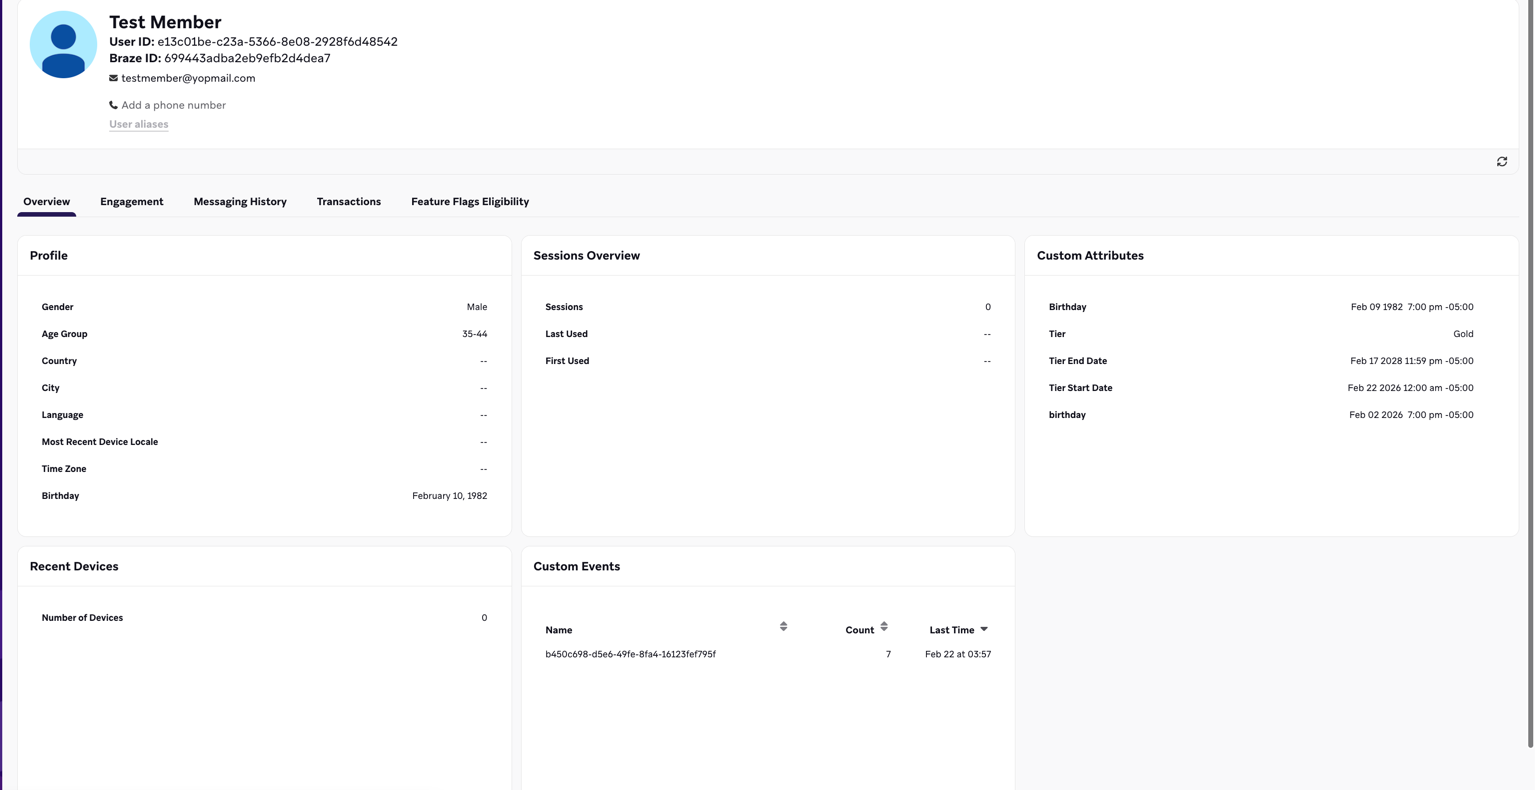
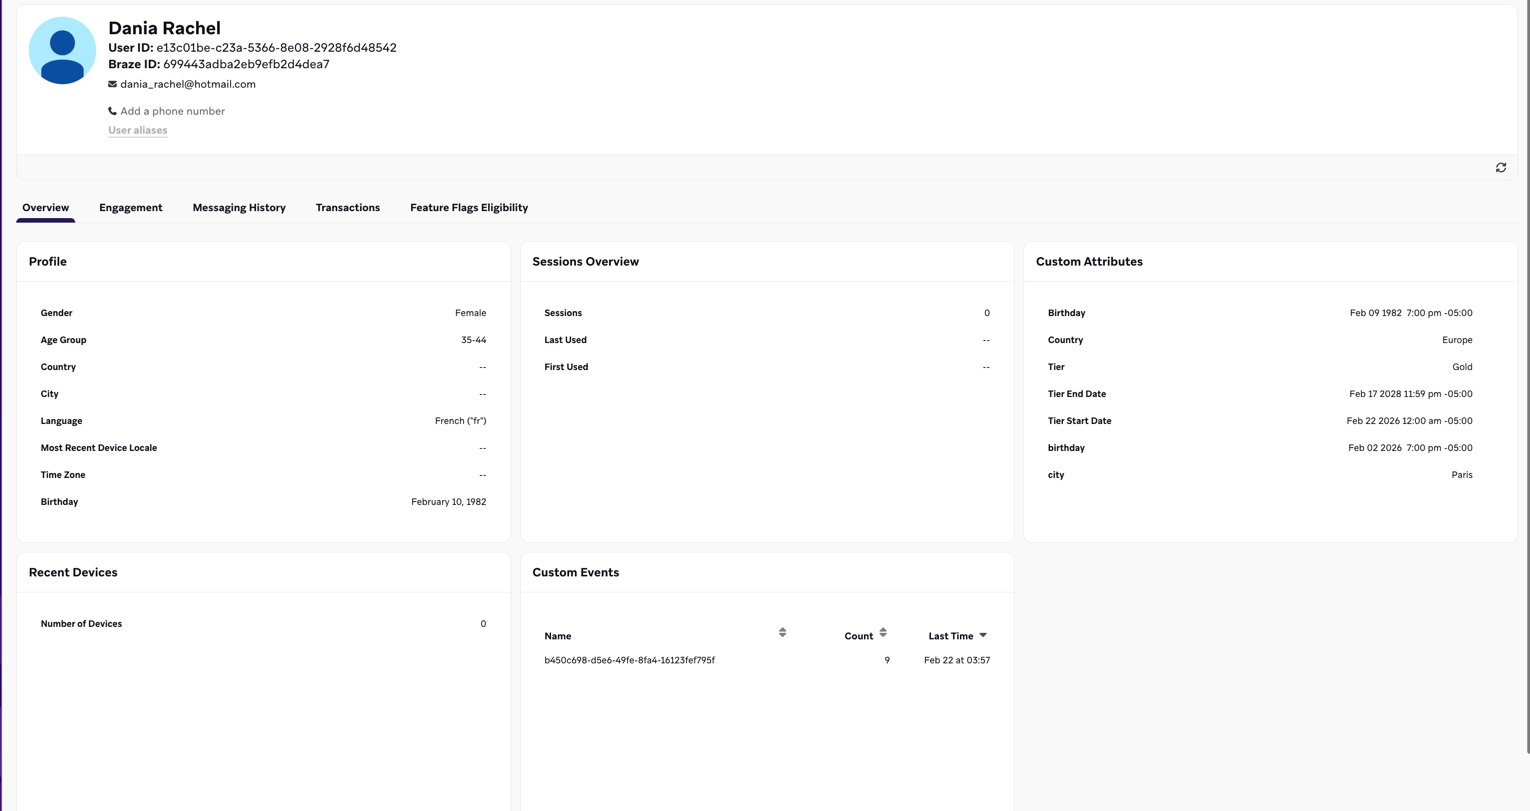
Version - 2

diff --git a/_docs/_partners/data_and_analytics/loyalty/lji.md b/_docs/_partners/data_and_analytics/loyalty/lji.md
@@ -1,13 +1,13 @@
 ---
 nav_title: GRAVTY®
-article_title: GRAVTY® Loyalty Cloud
+article_title: GRAVTY® Loyalty Platform
 description: "Industry’s first cloud-native, enterprise-class, patented technology, reshaping the loyalty program landscape through advanced AI, serverless, and autonomous capabilities."
 alias: /partners/gravty/
 page_type: partner
 search_tag: Partner
 ---
 
-# GRAVTY® Loyalty Cloud
+# GRAVTY® Loyalty Platform
 
 > [GRAVTY®](https://gravty.io/) is an enterprise-grade loyalty technology platform that enables brands to build, manage, and scale next-generation loyalty programs — driving deeper customer engagement through personalized, data-led experiences.
 
@@ -15,48 +15,47 @@ search_tag: Partner
 
 This integration connects GRAVTY® with Braze to enable seamless, multi-channel customer engagement. GRAVTY® acts as the publisher, triggering and syncing customer data and events, while Braze transforms this data into personalized communications across channels such as SMS, email, and push notifications.
 
-* **Member & Transaction Sync**: Sync member profiles, attributes, and transaction data to Braze using `/users/track` for real-time personalization and segmentation.
-* **Campaign Triggering**: Trigger Braze Campaigns via `/campaigns/trigger/send` to send immediate, single-message communications such as OTPs and alerts.
-* **Canvas Triggering**: Initiate multi-step customer journeys using `/canvas/trigger/send` for lifecycle and engagement use cases.
-* **Personalization**: Leverage synced attributes like loyalty status, points balance, and behavior to drive targeted messaging.
-* **Real-time Engagement**: Enable instant communication based on member actions and events occurring in GRAVTY®.
-
+1. **Member & Transaction Sync**: Sync member profiles, attributes, and transaction data to Braze using `/users/track` for real-time personalization and segmentation.
+2. **Campaign Triggering**: Trigger Braze Campaigns via `/campaigns/trigger/send` to send immediate, single-message communications such as OTPs and alerts.
+3. **Canvas Triggering**: Initiate multi-step customer journeys using `/canvas/trigger/send` for lifecycle and engagement use cases.
+4.  **Personalization**: Leverage synced attributes like loyalty status, points balance, and behavior to drive targeted messaging.
 ## Use cases
 
 This integration supports the following scenarios:
 
-1. **Member Data Synchronization**  
-   Sync member profiles and attributes to Braze on member creation or updates.
+1. **Member Profile Sync**: Synchronize member profiles and attributes with Braze whenever a member is created or updated.
 
-2. **Transaction & Event Sync**  
-   Send member purchases and behavioral events to Braze for segmentation and targeting.
+2. **Transaction & Event Sync**: Send member transactions and behavioral events to Braze to support segmentation and audience targeting.
 
-3. **Real-time Communication Triggers**  
-   Trigger messages when key events occur (for example, points earned, tier upgrades, or transactions).
+3. **Real-time Communication Triggers**: Trigger real-time communications from GRAVTY to Braze based on configured loyalty events—such as points accrual, tier upgrades, and transactions
 
-4. **Lifecycle Engagement**  
-   Initiate campaigns such as welcome emails after enrollment or re-engagement journeys based on member activity.
-
-5. **Personalized Messaging**  
-   Use synced loyalty data and attributes to deliver targeted and relevant communications.
+4. **Lifecycle and Personalized Engagement**: Leverage synchronized loyalty data and events to run lifecycle campaigns (e.g., welcome journeys, re-engagement campaigns) and deliver personalized communications through Braze.
 
 ## Prerequisites
 
 Before you start, ensure you have the following:
 
-| Requirement | Description |
-| :--- | :--- |
-| GRAVTY® Account | A GRAVTY® account with the required permissions to configure integrations and manage event subscriptions. |
-| Braze Account | An active Braze account with API access enabled. |
-| Braze REST API Key | A REST API key with `campaigns.trigger.send`, `canvas.trigger.send`, and `users.track` permissions. |
-| Braze API Endpoint | Your Braze REST endpoint (for example, `https://rest.fra-01.braze.eu`). |
-| Campaign / Canvas IDs | Required for triggering messages from GRAVTY®. |
+| Requirement | Description                                                                                                                                                                 |
+| :--- |:----------------------------------------------------------------------------------------------------------------------------------------------------------------------------|
+| GRAVTY® Account | A GRAVTY® account with the required permissions to configure integrations and manage event subscriptions.                                                                   |
+| Braze Account | An active Braze account with API access enabled.                                                                                                                            |
+| Braze REST API Key | A REST API key with `campaigns.trigger.send`, `canvas.trigger.send`, and `users.track` permissions.<br><br>Create this key in the Braze dashboard from **Settings > API Keys**. |
+| Braze API Endpoint | Your Braze REST endpoint (for example, `https://rest.fra-01.braze.eu`).                                                                                                     |
+| Campaign / Canvas IDs | Required for triggering messages from GRAVTY®.                                                                                                                              |
 {: .reset-td-br-1 .reset-td-br-2 role="presentation"}
 
 
 ## Integration
 
 The GRAVTY® integration with Braze is API-based and enables real-time data synchronization and communication triggering.
+
+<figure style="text-align:center; padding: 16px 0;">
+  <img src="/Users/pavanharish/Documents/braze-docs/assets/img/lji/braze-gravty-integration.png" style="width:70%; border-radius:12px;" />
+  <figcaption style="font-size:14px; color:#666;">
+    GRAVTY® integration flow using Braze APIs for data sync and communication delivery
+  </figcaption>
+</figure>
+
 
 ### Step 1: Connect Braze with GRAVTY®
 
@@ -65,11 +64,11 @@ The GRAVTY® integration with Braze is API-based and enables real-time data sync
 3. Select **Braze** as the integration provider.
 4. Provide the required details:
    * **API URL** (Braze REST endpoint)
-   * **API Key** (Braze REST API key)
+    * **API Key** (Braze REST API key)
 5. Save the configuration and ensure the connection is active.
 
 <figure style="text-align:center; padding: 16px 0;">
-  <img src="/assets/img/lji/braze-subscriber-setup.png" style="width:70%; border-radius:12px;" />
+  <img src="/Users/pavanharish/Documents/braze-docs/assets/img/lji/braze-subscriber-setup.png" style="width:70%; border-radius:12px;" />
   <figcaption style="font-size:14px; color:#666;">
     Connecting Braze as a subscriber in GRAVTY®
   </figcaption>
@@ -77,59 +76,49 @@ The GRAVTY® integration with Braze is API-based and enables real-time data sync
 
 ---
 
-### Step 2: Configure Attribute Mapping
+### Step 2: Configure Template Attribute Mapping
 
-After saving the Braze subscriber, you will be redirected to the **Attribute Mapping** page in GRAVTY® to configure field mapping for data synchronization.
+After saving the Braze subscriber, you will be redirected to the **Template Attribute Mapping** page in GRAVTY® to configure how data is mapped to Braze.
 
 To configure field mapping in GRAVTY®:
 
 1. Click **Add New Field**.
-2. Select the GRAVTY® attribute from the dropdown.
-3. Enter the corresponding Braze attribute name (custom attribute) where the data should be mapped.
-4. Repeat the steps to add additional mappings as needed.
-5. Save the configuration.
+2. Select the **GRAVTY® attribute** from the dropdown.
+3. Enter the corresponding **Braze attribute name** (custom attribute) where the data should be mapped.
+
+{% alert important %}
+There is no need to map `external_id`. GRAVTY® automatically generates and maps it internally by hashing the member ID to ensure consistent and secure identification in Braze.
+{% endalert %}
+
+4. Repeat steps **1–3** to add additional mappings as needed.
+5. Click **Save** to apply the configuration.
 
 <figure style="text-align:center; padding: 16px 0;">
-  <img src="/assets/img/lji/gravty-attribute-mapping.png" style="width:70%; border-radius:12px;" />
+  <img src="/Users/pavanharish/Documents/braze-docs/assets/img/lji/gravty-attribute-mapping.png" style="width:70%; border-radius:12px;" />
   <figcaption style="font-size:14px; color:#666;">
     Attribute mapping configuration for Braze member sync
   </figcaption>
 </figure>
 
-* Attribute mapping is used to construct the Braze `/users/track` payload for syncing data, including member attributes, events, purchases, and their properties.
-* This configuration is primarily used for **data synchronization (User Sync)** and is not required for Campaign or Canvas triggers.
-* A prefix-based naming convention (for example, `event__`, `purchase__`, `purchaseproperty__`) is used to identify the type of data being synced.
-* Supports configurable sync behavior through a **"Sync Only Updated Attributes"** toggle:
-  * When enabled, only modified attributes are sent
-  * Otherwise, full member data including attributes, events, and purchases are synced
+{% alert note %}
+The integration supports all Braze custom attribute data types, including numbers (integer, float), strings, arrays, booleans, objects, arrays of objects, and dates.
+{% endalert %}
 
 ---
 
-### Example: Member Sync and Triggered Communication
+### Step 3: Test the Integration
 
-* Member data synced from GRAVTY® is available in Braze user profiles.
-
-<figure style="text-align:center; padding: 16px 0;">
-  <img src="/assets/img/lji/braze-member-profile.png" style="width:70%; border-radius:12px;" />
-  <figcaption style="font-size:14px; color:#666;">
-    Example of a synced member profile in Braze
-  </figcaption>
-</figure>
-
-* Events such as tier upgrades can trigger communications using Campaigns or Canvas.
+Trigger a sample event  in GRAVTY® to verify that sync, communication triggers, and overall integration are working as expected.
 
 <figure style="text-align:center; padding: 16px 0;">
-  <img src="/assets/img/lji/braze-trigger-example.png" style="width:70%; border-radius:12px;" />
+  <img src="/Users/pavanharish/Documents/braze-docs/assets/img/lji/braze-member-profile.png" style="width:70%; border-radius:12px;" />
   <figcaption style="font-size:14px; color:#666;">
-    Example of a triggered communication in Braze
+    The data fields are populated based on the configured field mapping.
   </figcaption>
 </figure>
 
 ---
-## Data Handling and Request Behavior
+## Support
 
-* Uses `external_id` as the unique identifier in Braze, generated by hashing the GRAVTY® member ID to ensure secure and consistent identity mapping.
-* Supports Braze-compatible data types as defined in Braze documentation.
-* Includes a `User-Agent` header (`partner-LoyaltyJuggernaut-GRAVTY/<version>`) in API requests to help identify the integration source.
-* Requests are batched when payloads exceed Braze limits; purchases are sent in chunks of up to 75 items per request to ensure compliance with payload size and rate limits.
-* Exponential backoff retry logic is implemented to gracefully handle transient failures, with increasing wait intervals between retries to reduce load and improve reliability.
+For assistance with integration setup or troubleshooting, contact the LJI support team at **support@lji.io**.
+
